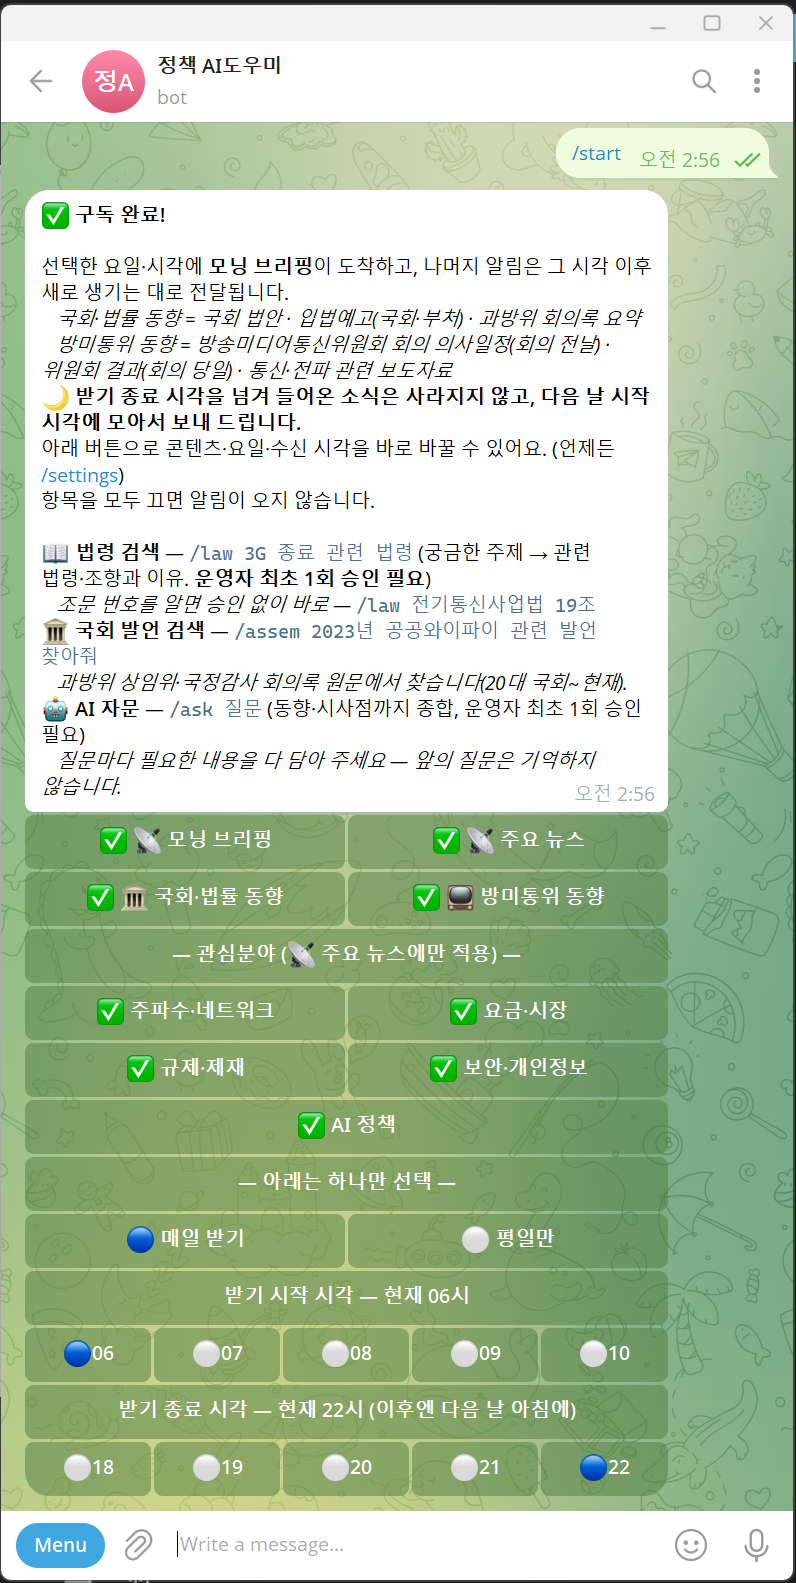
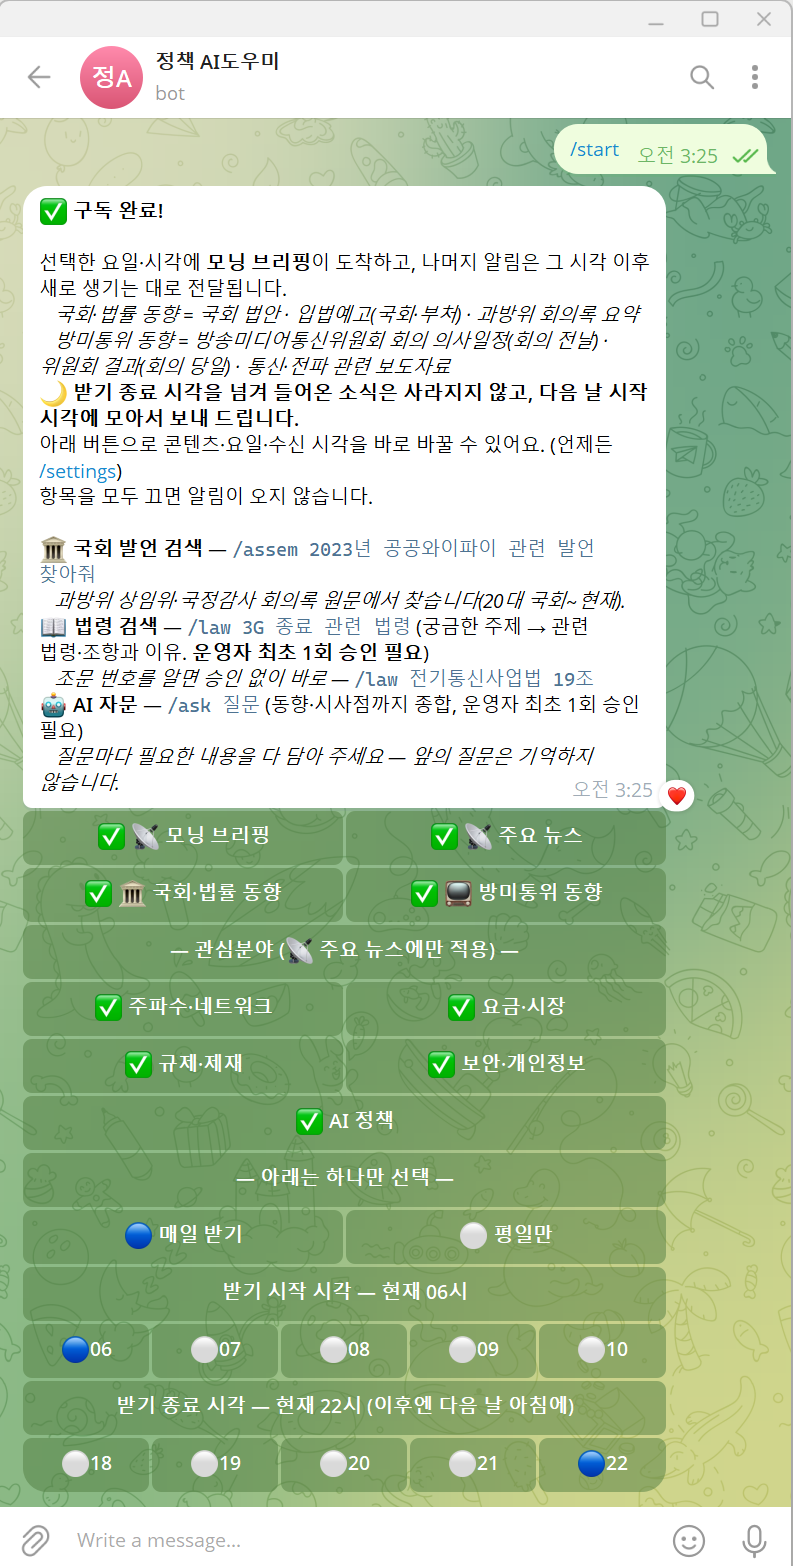
feat(bot): 명령 순서를 실사용 순으로 — /assem 을 앞으로 (#167-보론2)
60일 실측: assem 45건 · law 30(+조문조회 6) · ask 13 · start 12.

- /start 안내문에서 '국회 발언 검색'을 '법령 검색'보다 앞으로.
  종전 첫 줄이 /law 였고 거기 "운영자 최초 1회 승인 필요"가 붙어 있어,
  처음 들어온 사람이 가장 먼저 보는 것이 '승인받아야 한다'였다.
  이제 승인 없이 바로 되는 것이 먼저 보인다. (배포 완료)
- 명령 메뉴도 같은 순서로 — start · assem · law · ask · settings.
  setup_subscriber_bot.py 의 COMMANDS 를 원본으로 삼아 setMyCommands 호출
  (전체 스크립트를 돌리면 봇 이름·소개문까지 건드려 일일 변경 제한에 걸린다)
- docs/shots/telegram_start.png 를 새 안내문 화면으로 교체 — PPT 16장 반영

diff --git a/supabase/functions/telegram-webhook/index.ts b/supabase/functions/telegram-webhook/index.ts
@@ -186,12 +186,14 @@ const START_TEXT =
   '🌙 <b>받기 종료 시각을 넘겨 들어온 소식은 사라지지 않고, 다음 날 시작 시각에 모아서 보내 드립니다.</b>\n' +
   '아래 버튼으로 콘텐츠·요일·수신 시각을 바로 바꿀 수 있어요. (언제든 /settings)\n' +
   '항목을 모두 끄면 알림이 오지 않습니다.\n\n' +
-  '📖 <b>법령 검색</b> — <code>/law 3G 종료 관련 법령</code> (궁금한 주제 → 관련 법령·조항과 이유. <b>운영자 최초 1회 승인 필요</b>)\n' +
-  '   <i>조문 번호를 알면 승인 없이 바로 — <code>/law 전기통신사업법 19조</code></i>\n' +
+  // 순서 = 실사용 순(60일: assem 45 · law 30+6 · ask 13, 2026-09-14 실측).
+  // 승인 없이 바로 쓰는 /assem 을 먼저 보여 준다 — 첫 화면에서 바로 해 볼 수 있는 것이 위에 와야 한다.
   // 예시에 의원 실명을 쓰지 않는다(2026-09-13, #158) — 사내 공유 대상이 넓어졌고, 이름을 넣으면 그 사람 발언만
   // 걸러져 결과가 1~3건으로 줄어 기능이 약해 보인다(실측: 주제어 71~183건 vs 이름+주제어 1~3건).
   '🏛 <b>국회 발언 검색</b> — <code>/assem 2023년 공공와이파이 관련 발언 찾아줘</code>\n' +
   '   <i>과방위 상임위·국정감사 회의록 원문에서 찾습니다(20대 국회~현재).</i>\n' +
+  '📖 <b>법령 검색</b> — <code>/law 3G 종료 관련 법령</code> (궁금한 주제 → 관련 법령·조항과 이유. <b>운영자 최초 1회 승인 필요</b>)\n' +
+  '   <i>조문 번호를 알면 승인 없이 바로 — <code>/law 전기통신사업법 19조</code></i>\n' +
   '🤖 <b>AI 자문</b> — <code>/ask 질문</code> (동향·시사점까지 종합, 운영자 최초 1회 승인 필요)\n' +
   // 대시보드 자문은 chatHistory를 누적해 대화가 이어지지만 봇은 질문 1건만 보낸다(rag.ts).
   // 웹을 써 본 사람일수록 "그건 언제 시행되나?" 식 후속 질문을 던지므로 가입 시점에 미리 알린다.

diff --git a/setup_subscriber_bot.py b/setup_subscriber_bot.py
@@ -46,8 +46,10 @@ BOT_DESC = (
 )
 
 COMMANDS = [
+    # 순서 = 실사용 순(60일: assem 45 · law 30+6 · ask 13 · start 12, 2026-09-14 실측).
+    # /start 는 새로 들어오는 사람이 제일 먼저 누르므로 첫머리에 두고,
+    # /settings 는 맨 뒤 — 설정은 자주 여는 것이 아니고 /start 화면 버튼으로도 바꿀 수 있다.
     {'command': 'start',    'description': '구독 시작 · 설정 메뉴'},
-    {'command': 'settings', 'description': '수신 설정 변경'},
     # setMyCommands 는 목록을 **통째로 갈아 끼운다** — 여기 없는 명령은 돌리는 순간 메뉴에서 사라진다.
     # /assem 은 2026-09-13 BotFather로 직접 등록했는데 이 목록에 없어서, 이 스크립트를 다시 돌리면
     # 메뉴에서 빠질 뻔했다(기능은 살아 있으나 신규 이용자가 찾지 못한다 — 실사용 1위 명령이다).
@@ -56,6 +58,7 @@ COMMANDS = [
     # "이게 어떤 법과 관련되나"를 묻는 쪽이 대부분이다(운영자, 2026-08-03).
     {'command': 'law',      'description': '법령 검색 (예: /law 3G 종료 관련 법령)'},
     {'command': 'ask',      'description': 'AI 자문 (동향·시사점까지, 최초 1회 승인 필요)'},
+    {'command': 'settings', 'description': '수신 설정 변경'},
     # /stop 은 메뉴에서 뺐다 — /settings 에서 항목 3개를 끄면 같은 결과라 중복이고,
     # "해지 vs 항목 끄기" 두 상태가 있는 것처럼 보여 혼동을 준다. 명령 자체는 살려둔다(하위호환).
 ]
